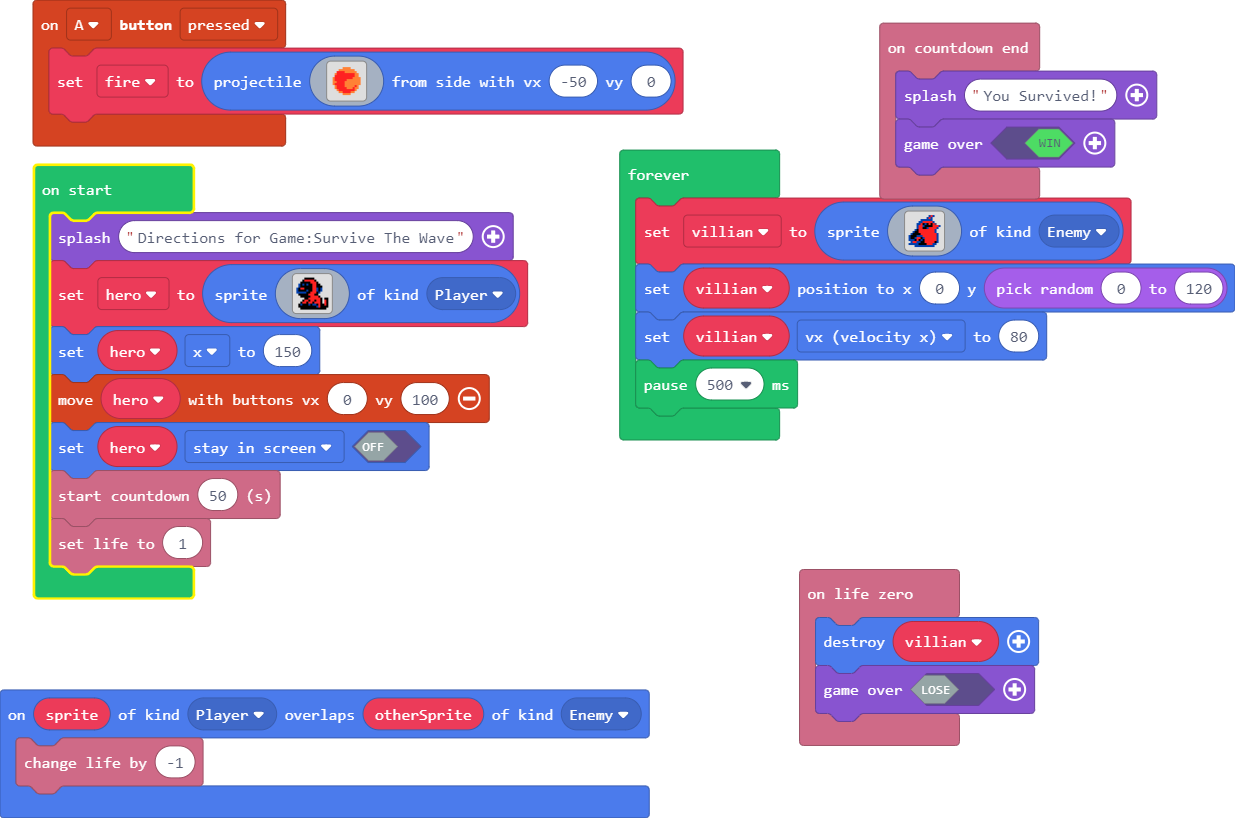
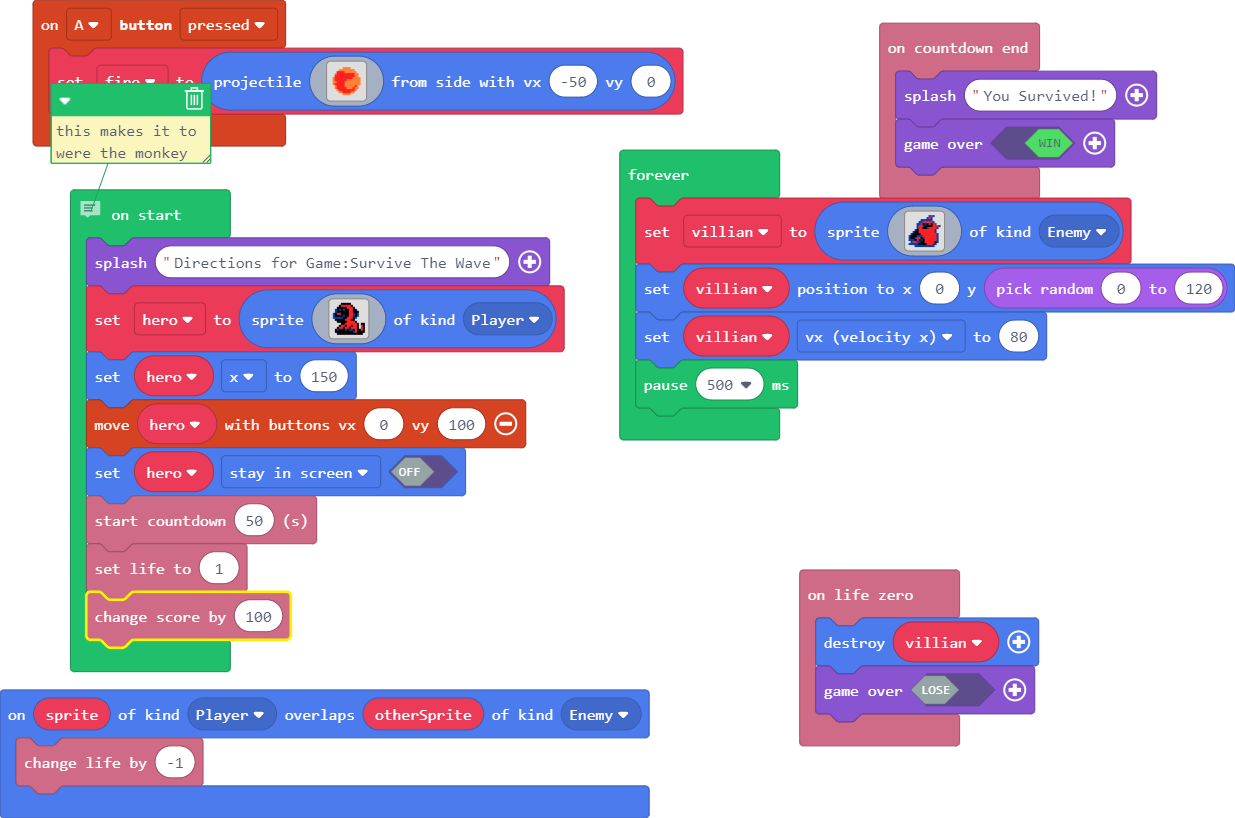
Update main.blocks, main.ts

diff --git a/main.ts b/main.ts
@@ -55,6 +55,7 @@ controller.moveSprite(hero, 0, 100)
 hero.setFlag(SpriteFlag.StayInScreen, false)
 info.startCountdown(50)
 info.setLife(1)
+info.changeScoreBy(100)
 forever(function () {
     villian = sprites.create(img`
 . . . . . . . . . . 8 2 8 . . . 
